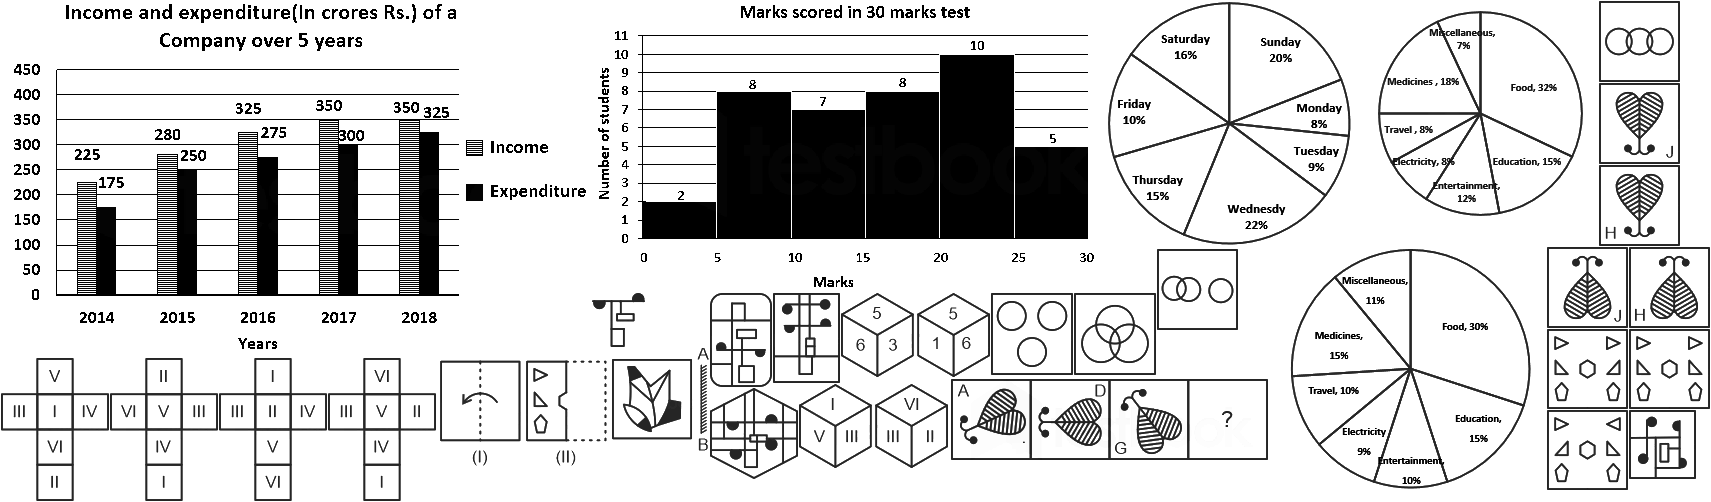
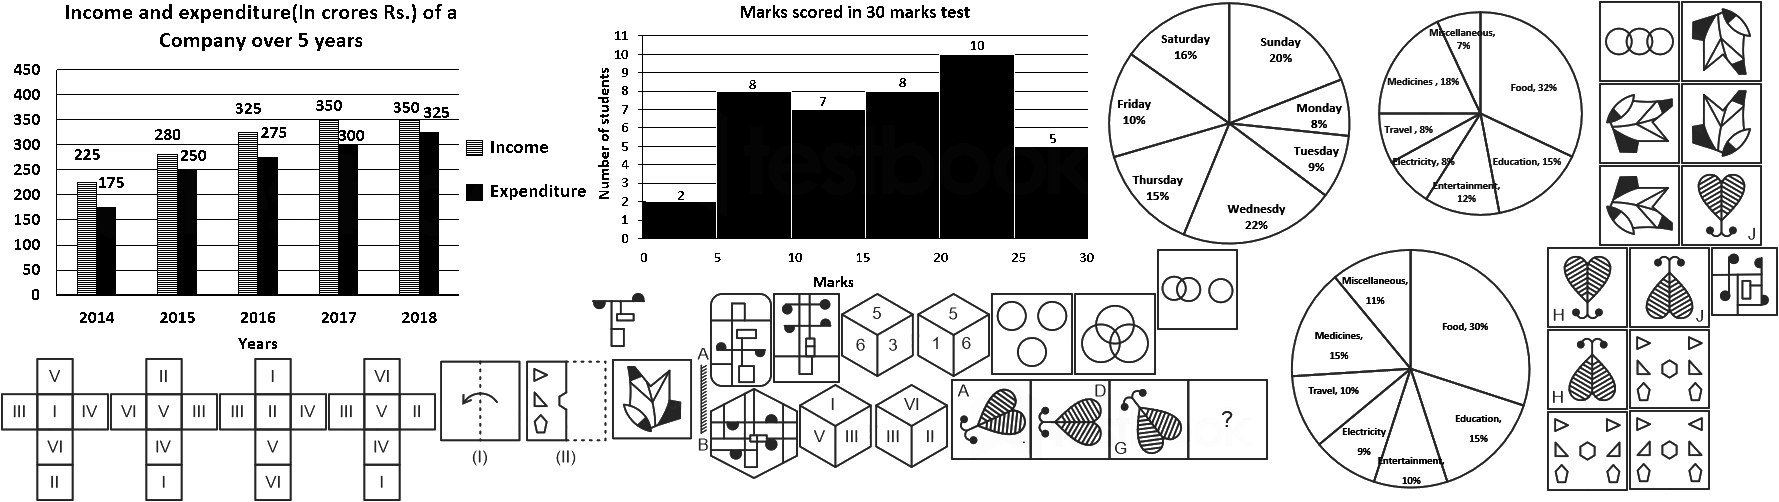
fixed

diff --git a/img/ssc/cgl/prev/2022/ssc_cgl_13_apr_2022_s1.css b/img/ssc/cgl/prev/2022/ssc_cgl_13_apr_2022_s1.css
@@ -8,97 +8,109 @@ Responsive: <div class="yourspritesname"></div>
 
 
 .ssc_cgl_13_apr_2022_s1_10 {max-width:174px; max-height:110px; }
-.ssc_cgl_13_apr_2022_s1_10::after {content: '\00a0';display: inline-block; width:174px; height:110px; background-position: 28.432010409889394% 91.3265306122449%;background-size: 983.3333333333334% 456.3636363636364%;background-image: url(ssc_cgl_13_apr_2022_s1.png);padding: 0; }
+.ssc_cgl_13_apr_2022_s1_10::after {content: '\00a0';display: inline-block; width:174px; height:110px; background-position: 27.227414330218068% 91.3265306122449%;background-size: 1022.4137931034483% 456.3636363636364%;background-image: url(ssc_cgl_13_apr_2022_s1.png);padding: 0; }
 div.ssc_cgl_13_apr_2022_s1_10::after {max-width:174px; width:100%;height:0;padding: 0 0 63.2183908045977% 0;}
 .ssc_cgl_13_apr_2022_s1_10_1 {max-width:81px; max-height:80px; }
-.ssc_cgl_13_apr_2022_s1_10_1::after {content: '\00a0';display: inline-block; width:81px; height:80px; background-position: 94.9079754601227% 77.96208530805687%;background-size: 2112.3456790123455% 627.5%;background-image: url(ssc_cgl_13_apr_2022_s1.png);padding: 0; }
+.ssc_cgl_13_apr_2022_s1_10_1::after {content: '\00a0';display: inline-block; width:81px; height:80px; background-position: 91.10718492343933% 97.39336492890995%;background-size: 2196.296296296296% 627.5%;background-image: url(ssc_cgl_13_apr_2022_s1.png);padding: 0; }
 div.ssc_cgl_13_apr_2022_s1_10_1::after {max-width:81px; width:100%;height:0;padding: 0 0 98.76543209876543% 0;}
 .ssc_cgl_13_apr_2022_s1_10_2 {max-width:81px; max-height:80px; }
-.ssc_cgl_13_apr_2022_s1_10_2::after {content: '\00a0';display: inline-block; width:81px; height:80px; background-position: 94.9079754601227% 77.96208530805687%;background-size: 2112.3456790123455% 627.5%;background-image: url(ssc_cgl_13_apr_2022_s1.png);padding: 0; }
+.ssc_cgl_13_apr_2022_s1_10_2::after {content: '\00a0';display: inline-block; width:81px; height:80px; background-position: 91.10718492343933% 97.39336492890995%;background-size: 2196.296296296296% 627.5%;background-image: url(ssc_cgl_13_apr_2022_s1.png);padding: 0; }
 div.ssc_cgl_13_apr_2022_s1_10_2::after {max-width:81px; width:100%;height:0;padding: 0 0 98.76543209876543% 0;}
 .ssc_cgl_13_apr_2022_s1_10_3 {max-width:81px; max-height:80px; }
-.ssc_cgl_13_apr_2022_s1_10_3::after {content: '\00a0';display: inline-block; width:81px; height:80px; background-position: 99.93865030674847% 77.96208530805687%;background-size: 2112.3456790123455% 627.5%;background-image: url(ssc_cgl_13_apr_2022_s1.png);padding: 0; }
+.ssc_cgl_13_apr_2022_s1_10_3::after {content: '\00a0';display: inline-block; width:81px; height:80px; background-position: 95.93639575971731% 77.96208530805687%;background-size: 2196.296296296296% 627.5%;background-image: url(ssc_cgl_13_apr_2022_s1.png);padding: 0; }
 div.ssc_cgl_13_apr_2022_s1_10_3::after {max-width:81px; width:100%;height:0;padding: 0 0 98.76543209876543% 0;}
 .ssc_cgl_13_apr_2022_s1_10_4 {max-width:81px; max-height:80px; }
-.ssc_cgl_13_apr_2022_s1_10_4::after {content: '\00a0';display: inline-block; width:81px; height:80px; background-position: 94.9079754601227% 97.1563981042654%;background-size: 2112.3456790123455% 627.5%;background-image: url(ssc_cgl_13_apr_2022_s1.png);padding: 0; }
+.ssc_cgl_13_apr_2022_s1_10_4::after {content: '\00a0';display: inline-block; width:81px; height:80px; background-position: 95.93639575971731% 97.1563981042654%;background-size: 2196.296296296296% 627.5%;background-image: url(ssc_cgl_13_apr_2022_s1.png);padding: 0; }
 div.ssc_cgl_13_apr_2022_s1_10_4::after {max-width:81px; width:100%;height:0;padding: 0 0 98.76543209876543% 0;}
 .ssc_cgl_13_apr_2022_s1_11 {max-width:149px; max-height:84px; }
-.ssc_cgl_13_apr_2022_s1_11::after {content: '\00a0';display: inline-block; width:149px; height:84px; background-position: 51.15236875800256% 91.86602870813397%;background-size: 1148.3221476510066% 597.6190476190476%;background-image: url(ssc_cgl_13_apr_2022_s1.png);padding: 0; }
+.ssc_cgl_13_apr_2022_s1_11::after {content: '\00a0';display: inline-block; width:149px; height:84px; background-position: 49.01840490797546% 91.86602870813397%;background-size: 1193.9597315436242% 597.6190476190476%;background-image: url(ssc_cgl_13_apr_2022_s1.png);padding: 0; }
 div.ssc_cgl_13_apr_2022_s1_11::after {max-width:149px; width:100%;height:0;padding: 0 0 56.375838926174495% 0;}
 .ssc_cgl_13_apr_2022_s1_11_1 {max-width:108px; max-height:143px; }
-.ssc_cgl_13_apr_2022_s1_11_1::after {content: '\00a0';display: inline-block; width:108px; height:143px; background-position: 0.06238303181534623% 99.72144846796657%;background-size: 1584.2592592592594% 351.04895104895104%;background-image: url(ssc_cgl_13_apr_2022_s1.png);padding: 0; }
+.ssc_cgl_13_apr_2022_s1_11_1::after {content: '\00a0';display: inline-block; width:108px; height:143px; background-position: 0.059844404548174746% 99.72144846796657%;background-size: 1647.2222222222222% 351.04895104895104%;background-image: url(ssc_cgl_13_apr_2022_s1.png);padding: 0; }
 div.ssc_cgl_13_apr_2022_s1_11_1::after {max-width:108px; width:100%;height:0;padding: 0 0 132.40740740740742% 0;}
 .ssc_cgl_13_apr_2022_s1_11_2 {max-width:108px; max-height:143px; }
-.ssc_cgl_13_apr_2022_s1_11_2::after {content: '\00a0';display: inline-block; width:108px; height:143px; background-position: 6.862133499688085% 99.72144846796657%;background-size: 1584.2592592592594% 351.04895104895104%;background-image: url(ssc_cgl_13_apr_2022_s1.png);padding: 0; }
+.ssc_cgl_13_apr_2022_s1_11_2::after {content: '\00a0';display: inline-block; width:108px; height:143px; background-position: 6.5828845002992225% 99.72144846796657%;background-size: 1647.2222222222222% 351.04895104895104%;background-image: url(ssc_cgl_13_apr_2022_s1.png);padding: 0; }
 div.ssc_cgl_13_apr_2022_s1_11_2::after {max-width:108px; width:100%;height:0;padding: 0 0 132.40740740740742% 0;}
 .ssc_cgl_13_apr_2022_s1_11_3 {max-width:108px; max-height:143px; }
-.ssc_cgl_13_apr_2022_s1_11_3::after {content: '\00a0';display: inline-block; width:108px; height:143px; background-position: 13.661883967560824% 99.72144846796657%;background-size: 1584.2592592592594% 351.04895104895104%;background-image: url(ssc_cgl_13_apr_2022_s1.png);padding: 0; }
+.ssc_cgl_13_apr_2022_s1_11_3::after {content: '\00a0';display: inline-block; width:108px; height:143px; background-position: 13.105924596050269% 99.72144846796657%;background-size: 1647.2222222222222% 351.04895104895104%;background-image: url(ssc_cgl_13_apr_2022_s1.png);padding: 0; }
 div.ssc_cgl_13_apr_2022_s1_11_3::after {max-width:108px; width:100%;height:0;padding: 0 0 132.40740740740742% 0;}
 .ssc_cgl_13_apr_2022_s1_11_4 {max-width:108px; max-height:143px; }
-.ssc_cgl_13_apr_2022_s1_11_4::after {content: '\00a0';display: inline-block; width:108px; height:143px; background-position: 20.461634435433563% 99.72144846796657%;background-size: 1584.2592592592594% 351.04895104895104%;background-image: url(ssc_cgl_13_apr_2022_s1.png);padding: 0; }
+.ssc_cgl_13_apr_2022_s1_11_4::after {content: '\00a0';display: inline-block; width:108px; height:143px; background-position: 19.62896469180132% 99.72144846796657%;background-size: 1647.2222222222222% 351.04895104895104%;background-image: url(ssc_cgl_13_apr_2022_s1.png);padding: 0; }
 div.ssc_cgl_13_apr_2022_s1_11_4::after {max-width:108px; width:100%;height:0;padding: 0 0 132.40740740740742% 0;}
 .ssc_cgl_13_apr_2022_s1_16 {max-width:149px; max-height:84px; }
-.ssc_cgl_13_apr_2022_s1_16::after {content: '\00a0';display: inline-block; width:149px; height:84px; background-position: 53.84122919334187% 70.09569377990431%;background-size: 1148.3221476510066% 597.6190476190476%;background-image: url(ssc_cgl_13_apr_2022_s1.png);padding: 0; }
+.ssc_cgl_13_apr_2022_s1_16::after {content: '\00a0';display: inline-block; width:149px; height:84px; background-position: 51.59509202453988% 70.09569377990431%;background-size: 1193.9597315436242% 597.6190476190476%;background-image: url(ssc_cgl_13_apr_2022_s1.png);padding: 0; }
 div.ssc_cgl_13_apr_2022_s1_16::after {max-width:149px; width:100%;height:0;padding: 0 0 56.375838926174495% 0;}
 .ssc_cgl_13_apr_2022_s1_2 {max-width:53px; max-height:54px; }
-.ssc_cgl_13_apr_2022_s1_2::after {content: '\00a0';display: inline-block; width:53px; height:54px; background-position: 35.70566948130278% 65.40178571428571%;background-size: 3228.301886792453% 929.6296296296297%;background-image: url(ssc_cgl_13_apr_2022_s1.png);padding: 0; }
+.ssc_cgl_13_apr_2022_s1_2::after {content: '\00a0';display: inline-block; width:53px; height:54px; background-position: 34.29895712630359% 65.40178571428571%;background-size: 3356.603773584906% 929.6296296296297%;background-image: url(ssc_cgl_13_apr_2022_s1.png);padding: 0; }
 div.ssc_cgl_13_apr_2022_s1_2::after {max-width:53px; width:100%;height:0;padding: 0 0 101.88679245283019% 0;}
 .ssc_cgl_13_apr_2022_s1_21_1 {max-width:82px; max-height:82px; }
-.ssc_cgl_13_apr_2022_s1_21_1::after {content: '\00a0';display: inline-block; width:82px; height:82px; background-position: 60.83486801718846% 69.76190476190476%;background-size: 2086.5853658536585% 612.1951219512196%;background-image: url(ssc_cgl_13_apr_2022_s1.png);padding: 0; }
+.ssc_cgl_13_apr_2022_s1_21_1::after {content: '\00a0';display: inline-block; width:82px; height:82px; background-position: 58.39717147908073% 69.76190476190476%;background-size: 2169.512195121951% 612.1951219512196%;background-image: url(ssc_cgl_13_apr_2022_s1.png);padding: 0; }
 div.ssc_cgl_13_apr_2022_s1_21_1::after {max-width:82px; width:100%;height:0;padding: 0 0 100% 0;}
 .ssc_cgl_13_apr_2022_s1_21_2 {max-width:81px; max-height:81px; }
-.ssc_cgl_13_apr_2022_s1_21_2::after {content: '\00a0';display: inline-block; width:81px; height:81px; background-position: 70.98159509202453% 59.14489311163896%;background-size: 2112.3456790123455% 619.7530864197531%;background-image: url(ssc_cgl_13_apr_2022_s1.png);padding: 0; }
+.ssc_cgl_13_apr_2022_s1_21_2::after {content: '\00a0';display: inline-block; width:81px; height:81px; background-position: 68.13898704358068% 59.14489311163896%;background-size: 2196.296296296296% 619.7530864197531%;background-image: url(ssc_cgl_13_apr_2022_s1.png);padding: 0; }
 div.ssc_cgl_13_apr_2022_s1_21_2::after {max-width:81px; width:100%;height:0;padding: 0 0 100% 0;}
 .ssc_cgl_13_apr_2022_s1_21_3 {max-width:81px; max-height:81px; }
-.ssc_cgl_13_apr_2022_s1_21_3::after {content: '\00a0';display: inline-block; width:81px; height:81px; background-position: 98.09815950920246% 0.2375296912114014%;background-size: 2112.3456790123455% 619.7530864197531%;background-image: url(ssc_cgl_13_apr_2022_s1.png);padding: 0; }
+.ssc_cgl_13_apr_2022_s1_21_3::after {content: '\00a0';display: inline-block; width:81px; height:81px; background-position: 94.1696113074205% 0.2375296912114014%;background-size: 2196.296296296296% 619.7530864197531%;background-image: url(ssc_cgl_13_apr_2022_s1.png);padding: 0; }
 div.ssc_cgl_13_apr_2022_s1_21_3::after {max-width:81px; width:100%;height:0;padding: 0 0 100% 0;}
 .ssc_cgl_13_apr_2022_s1_21_4 {max-width:82px; max-height:82px; }
-.ssc_cgl_13_apr_2022_s1_21_4::after {content: '\00a0';display: inline-block; width:82px; height:82px; background-position: 65.93001841620627% 69.76190476190476%;background-size: 2086.5853658536585% 612.1951219512196%;background-image: url(ssc_cgl_13_apr_2022_s1.png);padding: 0; }
+.ssc_cgl_13_apr_2022_s1_21_4::after {content: '\00a0';display: inline-block; width:82px; height:82px; background-position: 63.28815556865056% 69.76190476190476%;background-size: 2169.512195121951% 612.1951219512196%;background-image: url(ssc_cgl_13_apr_2022_s1.png);padding: 0; }
 div.ssc_cgl_13_apr_2022_s1_21_4::after {max-width:82px; width:100%;height:0;padding: 0 0 100% 0;}
 .ssc_cgl_13_apr_2022_s1_2_1 {max-width:67px; max-height:90px; }
-.ssc_cgl_13_apr_2022_s1_2_1::after {content: '\00a0';display: inline-block; width:67px; height:90px; background-position: 47.01946472019465% 71.11650485436893%;background-size: 2553.731343283582% 557.7777777777778%;background-image: url(ssc_cgl_13_apr_2022_s1.png);padding: 0; }
+.ssc_cgl_13_apr_2022_s1_2_1::after {content: '\00a0';display: inline-block; width:67px; height:90px; background-position: 45.151869158878505% 71.11650485436893%;background-size: 2655.223880597015% 557.7777777777778%;background-image: url(ssc_cgl_13_apr_2022_s1.png);padding: 0; }
 div.ssc_cgl_13_apr_2022_s1_2_1::after {max-width:67px; width:100%;height:0;padding: 0 0 134.32835820895522% 0;}
 .ssc_cgl_13_apr_2022_s1_2_2 {max-width:67px; max-height:69px; }
-.ssc_cgl_13_apr_2022_s1_2_2::after {content: '\00a0';display: inline-block; width:67px; height:69px; background-position: 99.08759124087591% 94.68822170900692%;background-size: 2553.731343283582% 727.536231884058%;background-image: url(ssc_cgl_13_apr_2022_s1.png);padding: 0; }
+.ssc_cgl_13_apr_2022_s1_2_2::after {content: '\00a0';display: inline-block; width:67px; height:69px; background-position: 99.94158878504673% 57.043879907621246%;background-size: 2655.223880597015% 727.536231884058%;background-image: url(ssc_cgl_13_apr_2022_s1.png);padding: 0; }
 div.ssc_cgl_13_apr_2022_s1_2_2::after {max-width:67px; width:100%;height:0;padding: 0 0 102.98507462686567% 0;}
 .ssc_cgl_13_apr_2022_s1_2_3 {max-width:62px; max-height:94px; }
-.ssc_cgl_13_apr_2022_s1_2_3::after {content: '\00a0';display: inline-block; width:62px; height:94px; background-position: 43.056397816858706% 71.81372549019608%;background-size: 2759.6774193548385% 534.0425531914893%;background-image: url(ssc_cgl_13_apr_2022_s1.png);padding: 0; }
+.ssc_cgl_13_apr_2022_s1_2_3::after {content: '\00a0';display: inline-block; width:62px; height:94px; background-position: 41.35119394292371% 71.81372549019608%;background-size: 2869.3548387096776% 534.0425531914893%;background-image: url(ssc_cgl_13_apr_2022_s1.png);padding: 0; }
 div.ssc_cgl_13_apr_2022_s1_2_3::after {max-width:62px; width:100%;height:0;padding: 0 0 151.61290322580646% 0;}
 .ssc_cgl_13_apr_2022_s1_2_4 {max-width:88px; max-height:91px; }
-.ssc_cgl_13_apr_2022_s1_2_4::after {content: '\00a0';display: inline-block; width:88px; height:91px; background-position: 43.74614910659273% 94.40389294403893%;background-size: 1944.3181818181818% 551.6483516483516%;background-image: url(ssc_cgl_13_apr_2022_s1.png);padding: 0; }
+.ssc_cgl_13_apr_2022_s1_2_4::after {content: '\00a0';display: inline-block; width:88px; height:91px; background-position: 41.98698994677706% 94.40389294403893%;background-size: 2021.590909090909% 551.6483516483516%;background-image: url(ssc_cgl_13_apr_2022_s1.png);padding: 0; }
 div.ssc_cgl_13_apr_2022_s1_2_4::after {max-width:88px; width:100%;height:0;padding: 0 0 103.4090909090909% 0;}
 .ssc_cgl_13_apr_2022_s1_4 {max-width:97px; max-height:103px; }
-.ssc_cgl_13_apr_2022_s1_4::after {content: '\00a0';display: inline-block; width:97px; height:103px; background-position: 37.9182156133829% 87.21804511278195%;background-size: 1763.9175257731958% 487.378640776699%;background-image: url(ssc_cgl_13_apr_2022_s1.png);padding: 0; }
+.ssc_cgl_13_apr_2022_s1_4::after {content: '\00a0';display: inline-block; width:97px; height:103px; background-position: 36.38525564803805% 87.21804511278195%;background-size: 1834.020618556701% 487.378640776699%;background-image: url(ssc_cgl_13_apr_2022_s1.png);padding: 0; }
 div.ssc_cgl_13_apr_2022_s1_4::after {max-width:97px; width:100%;height:0;padding: 0 0 106.18556701030928% 0;}
+.ssc_cgl_13_apr_2022_s1_4_1 {max-width:81px; max-height:81px; }
+.ssc_cgl_13_apr_2022_s1_4_1::after {content: '\00a0';display: inline-block; width:81px; height:81px; background-position: 98.99882214369848% 0.2375296912114014%;background-size: 2196.296296296296% 619.7530864197531%;background-image: url(ssc_cgl_13_apr_2022_s1.png);padding: 0; }
+div.ssc_cgl_13_apr_2022_s1_4_1::after {max-width:81px; width:100%;height:0;padding: 0 0 100% 0;}
+.ssc_cgl_13_apr_2022_s1_4_2 {max-width:81px; max-height:81px; }
+.ssc_cgl_13_apr_2022_s1_4_2::after {content: '\00a0';display: inline-block; width:81px; height:81px; background-position: 94.1696113074205% 19.71496437054632%;background-size: 2196.296296296296% 619.7530864197531%;background-image: url(ssc_cgl_13_apr_2022_s1.png);padding: 0; }
+div.ssc_cgl_13_apr_2022_s1_4_2::after {max-width:81px; width:100%;height:0;padding: 0 0 100% 0;}
+.ssc_cgl_13_apr_2022_s1_4_3 {max-width:81px; max-height:81px; }
+.ssc_cgl_13_apr_2022_s1_4_3::after {content: '\00a0';display: inline-block; width:81px; height:81px; background-position: 98.99882214369848% 19.71496437054632%;background-size: 2196.296296296296% 619.7530864197531%;background-image: url(ssc_cgl_13_apr_2022_s1.png);padding: 0; }
+div.ssc_cgl_13_apr_2022_s1_4_3::after {max-width:81px; width:100%;height:0;padding: 0 0 100% 0;}
+.ssc_cgl_13_apr_2022_s1_4_4 {max-width:81px; max-height:81px; }
+.ssc_cgl_13_apr_2022_s1_4_4::after {content: '\00a0';display: inline-block; width:81px; height:81px; background-position: 94.1696113074205% 39.19239904988124%;background-size: 2196.296296296296% 619.7530864197531%;background-image: url(ssc_cgl_13_apr_2022_s1.png);padding: 0; }
+div.ssc_cgl_13_apr_2022_s1_4_4::after {max-width:81px; width:100%;height:0;padding: 0 0 100% 0;}
 .ssc_cgl_13_apr_2022_s1_6 {max-width:321px; max-height:82px; }
-.ssc_cgl_13_apr_2022_s1_6::after {content: '\00a0';display: inline-block; width:321px; height:82px; background-position: 68.27338129496403% 90%;background-size: 533.0218068535826% 612.1951219512196%;background-image: url(ssc_cgl_13_apr_2022_s1.png);padding: 0; }
+.ssc_cgl_13_apr_2022_s1_6::after {content: '\00a0';display: inline-block; width:321px; height:82px; background-position: 65.08916323731138% 90%;background-size: 554.2056074766355% 612.1951219512196%;background-image: url(ssc_cgl_13_apr_2022_s1.png);padding: 0; }
 div.ssc_cgl_13_apr_2022_s1_6::after {max-width:321px; width:100%;height:0;padding: 0 0 25.54517133956386% 0;}
 .ssc_cgl_13_apr_2022_s1_64 {max-width:275px; max-height:242px; }
-.ssc_cgl_13_apr_2022_s1_64::after {content: '\00a0';display: inline-block; width:275px; height:242px; background-position: 88.50974930362116% 95.76923076923077%;background-size: 622.1818181818181% 207.43801652892563%;background-image: url(ssc_cgl_13_apr_2022_s1.png);padding: 0; }
+.ssc_cgl_13_apr_2022_s1_64::after {content: '\00a0';display: inline-block; width:275px; height:242px; background-position: 84.50797872340425% 95.76923076923077%;background-size: 646.9090909090909% 207.43801652892563%;background-image: url(ssc_cgl_13_apr_2022_s1.png);padding: 0; }
 div.ssc_cgl_13_apr_2022_s1_64::after {max-width:275px; width:100%;height:0;padding: 0 0 88% 0;}
 .ssc_cgl_13_apr_2022_s1_64_a {max-width:243px; max-height:225px; }
-.ssc_cgl_13_apr_2022_s1_64_a::after {content: '\00a0';display: inline-block; width:243px; height:225px; background-position: 92.3024523160763% 0.36101083032490977%;background-size: 704.1152263374486% 223.11111111111111%;background-image: url(ssc_cgl_13_apr_2022_s1.png);padding: 0; }
+.ssc_cgl_13_apr_2022_s1_64_a::after {content: '\00a0';display: inline-block; width:243px; height:225px; background-position: 88.21614583333333% 0.36101083032490977%;background-size: 732.0987654320987% 223.11111111111111%;background-image: url(ssc_cgl_13_apr_2022_s1.png);padding: 0; }
 div.ssc_cgl_13_apr_2022_s1_64_a::after {max-width:243px; width:100%;height:0;padding: 0 0 92.5925925925926% 0;}
 .ssc_cgl_13_apr_2022_s1_65 {max-width:254px; max-height:247px; }
-.ssc_cgl_13_apr_2022_s1_65::after {content: '\00a0';display: inline-block; width:254px; height:247px; background-position: 75.49759780370624% 0.39215686274509803%;background-size: 673.6220472440945% 203.23886639676113%;background-image: url(ssc_cgl_13_apr_2022_s1.png);padding: 0; }
+.ssc_cgl_13_apr_2022_s1_65::after {content: '\00a0';display: inline-block; width:254px; height:247px; background-position: 72.1311475409836% 0.39215686274509803%;background-size: 700.3937007874016% 203.23886639676113%;background-image: url(ssc_cgl_13_apr_2022_s1.png);padding: 0; }
 div.ssc_cgl_13_apr_2022_s1_65::after {max-width:254px; width:100%;height:0;padding: 0 0 97.24409448818898% 0;}
 .ssc_cgl_13_apr_2022_s1_69 {max-width:590px; max-height:356px; }
-.ssc_cgl_13_apr_2022_s1_69::after {content: '\00a0';display: inline-block; width:590px; height:356px; background-position: 0.08920606601248884% 0.684931506849315%;background-size: 290% 141.01123595505618%;background-image: url(ssc_cgl_13_apr_2022_s1.png);padding: 0; }
+.ssc_cgl_13_apr_2022_s1_69::after {content: '\00a0';display: inline-block; width:590px; height:356px; background-position: 0.08410428931875526% 0.684931506849315%;background-size: 301.52542372881356% 141.01123595505618%;background-image: url(ssc_cgl_13_apr_2022_s1.png);padding: 0; }
 div.ssc_cgl_13_apr_2022_s1_69::after {max-width:590px; width:100%;height:0;padding: 0 0 60.33898305084746% 0;}
 .ssc_cgl_13_apr_2022_s1_6_1 {max-width:81px; max-height:81px; }
-.ssc_cgl_13_apr_2022_s1_6_1::after {content: '\00a0';display: inline-block; width:81px; height:81px; background-position: 98.09815950920246% 19.71496437054632%;background-size: 2112.3456790123455% 619.7530864197531%;background-image: url(ssc_cgl_13_apr_2022_s1.png);padding: 0; }
+.ssc_cgl_13_apr_2022_s1_6_1::after {content: '\00a0';display: inline-block; width:81px; height:81px; background-position: 98.99882214369848% 39.19239904988124%;background-size: 2196.296296296296% 619.7530864197531%;background-image: url(ssc_cgl_13_apr_2022_s1.png);padding: 0; }
 div.ssc_cgl_13_apr_2022_s1_6_1::after {max-width:81px; width:100%;height:0;padding: 0 0 100% 0;}
 .ssc_cgl_13_apr_2022_s1_6_2 {max-width:81px; max-height:81px; }
-.ssc_cgl_13_apr_2022_s1_6_2::after {content: '\00a0';display: inline-block; width:81px; height:81px; background-position: 98.09815950920246% 39.19239904988124%;background-size: 2112.3456790123455% 619.7530864197531%;background-image: url(ssc_cgl_13_apr_2022_s1.png);padding: 0; }
+.ssc_cgl_13_apr_2022_s1_6_2::after {content: '\00a0';display: inline-block; width:81px; height:81px; background-position: 91.10718492343933% 58.66983372921615%;background-size: 2196.296296296296% 619.7530864197531%;background-image: url(ssc_cgl_13_apr_2022_s1.png);padding: 0; }
 div.ssc_cgl_13_apr_2022_s1_6_2::after {max-width:81px; width:100%;height:0;padding: 0 0 100% 0;}
 .ssc_cgl_13_apr_2022_s1_6_3 {max-width:81px; max-height:81px; }
-.ssc_cgl_13_apr_2022_s1_6_3::after {content: '\00a0';display: inline-block; width:81px; height:81px; background-position: 94.9079754601227% 58.66983372921615%;background-size: 2112.3456790123455% 619.7530864197531%;background-image: url(ssc_cgl_13_apr_2022_s1.png);padding: 0; }
+.ssc_cgl_13_apr_2022_s1_6_3::after {content: '\00a0';display: inline-block; width:81px; height:81px; background-position: 95.93639575971731% 58.66983372921615%;background-size: 2196.296296296296% 619.7530864197531%;background-image: url(ssc_cgl_13_apr_2022_s1.png);padding: 0; }
 div.ssc_cgl_13_apr_2022_s1_6_3::after {max-width:81px; width:100%;height:0;padding: 0 0 100% 0;}
 .ssc_cgl_13_apr_2022_s1_6_4 {max-width:81px; max-height:81px; }
-.ssc_cgl_13_apr_2022_s1_6_4::after {content: '\00a0';display: inline-block; width:81px; height:81px; background-position: 99.93865030674847% 58.66983372921615%;background-size: 2112.3456790123455% 619.7530864197531%;background-image: url(ssc_cgl_13_apr_2022_s1.png);padding: 0; }
+.ssc_cgl_13_apr_2022_s1_6_4::after {content: '\00a0';display: inline-block; width:81px; height:81px; background-position: 91.10718492343933% 78.14726840855107%;background-size: 2196.296296296296% 619.7530864197531%;background-image: url(ssc_cgl_13_apr_2022_s1.png);padding: 0; }
 div.ssc_cgl_13_apr_2022_s1_6_4::after {max-width:81px; width:100%;height:0;padding: 0 0 100% 0;}
 .ssc_cgl_13_apr_2022_s1_75 {max-width:507px; max-height:291px; }
-.ssc_cgl_13_apr_2022_s1_75::after {content: '\00a0';display: inline-block; width:507px; height:291px; background-position: 49.16943521594684% 0.47393364928909953%;background-size: 337.47534516765285% 172.5085910652921%;background-image: url(ssc_cgl_13_apr_2022_s1.png);padding: 0; }
+.ssc_cgl_13_apr_2022_s1_75::after {content: '\00a0';display: inline-block; width:507px; height:291px; background-position: 46.540880503144656% 0.47393364928909953%;background-size: 350.88757396449705% 172.5085910652921%;background-image: url(ssc_cgl_13_apr_2022_s1.png);padding: 0; }
 div.ssc_cgl_13_apr_2022_s1_75::after {max-width:507px; width:100%;height:0;padding: 0 0 57.396449704142015% 0;}
 
-/* $TexturePacker:SmartUpdate:be52205ada8a0ed5c51254715900a890:4788a6236c2dc9be54aec6584aee5c8a:18c864e811cb62c6f21d98f83deafd21$ */
+/* $TexturePacker:SmartUpdate:51dae3d7fefde1af1a2175e604658656:3a0a9963c280cb5305b8f6a5a934936c:18c864e811cb62c6f21d98f83deafd21$ */
